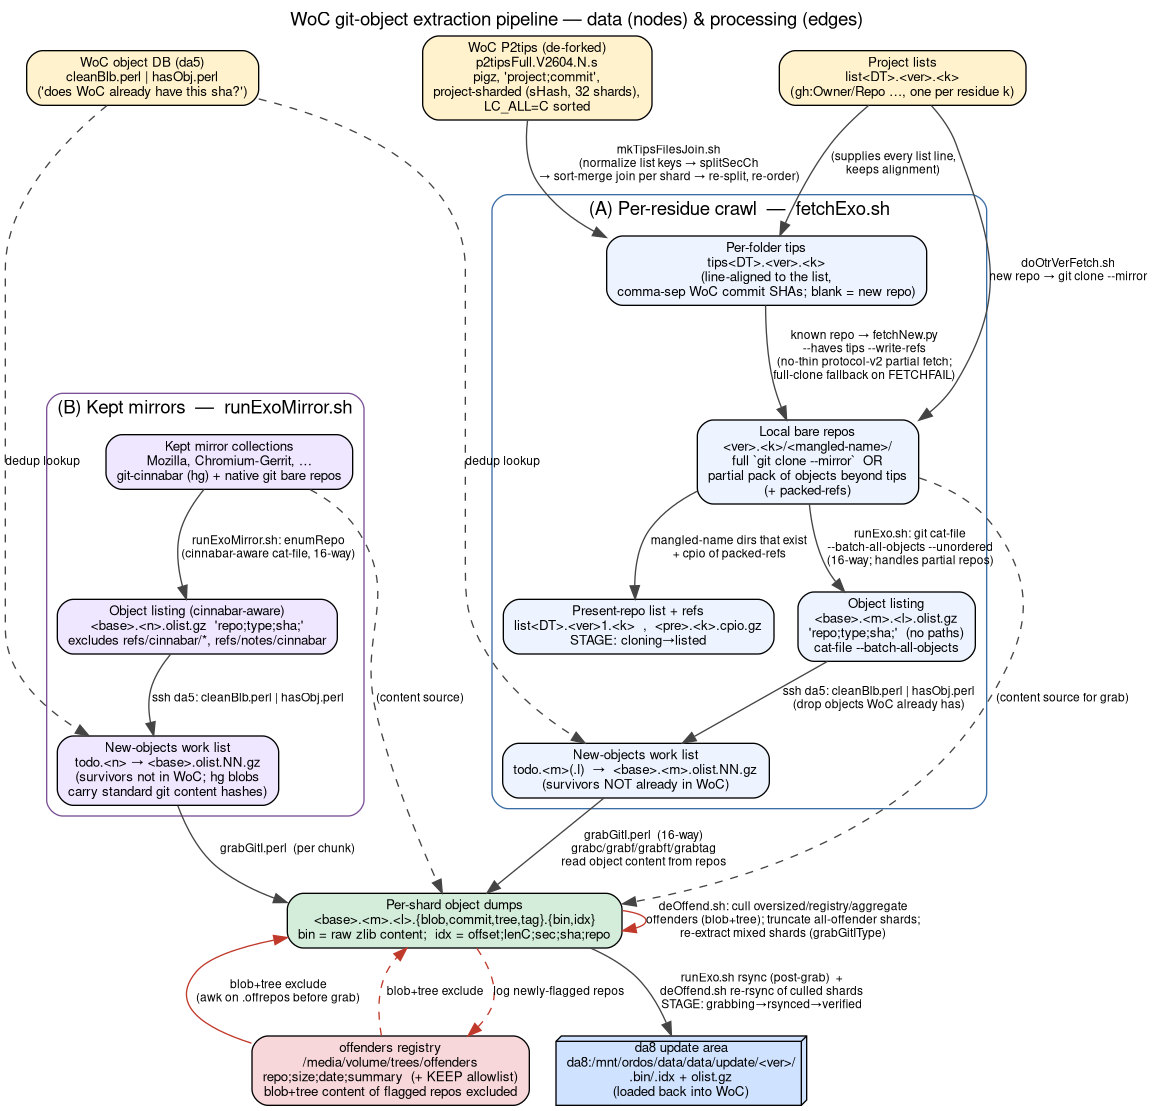
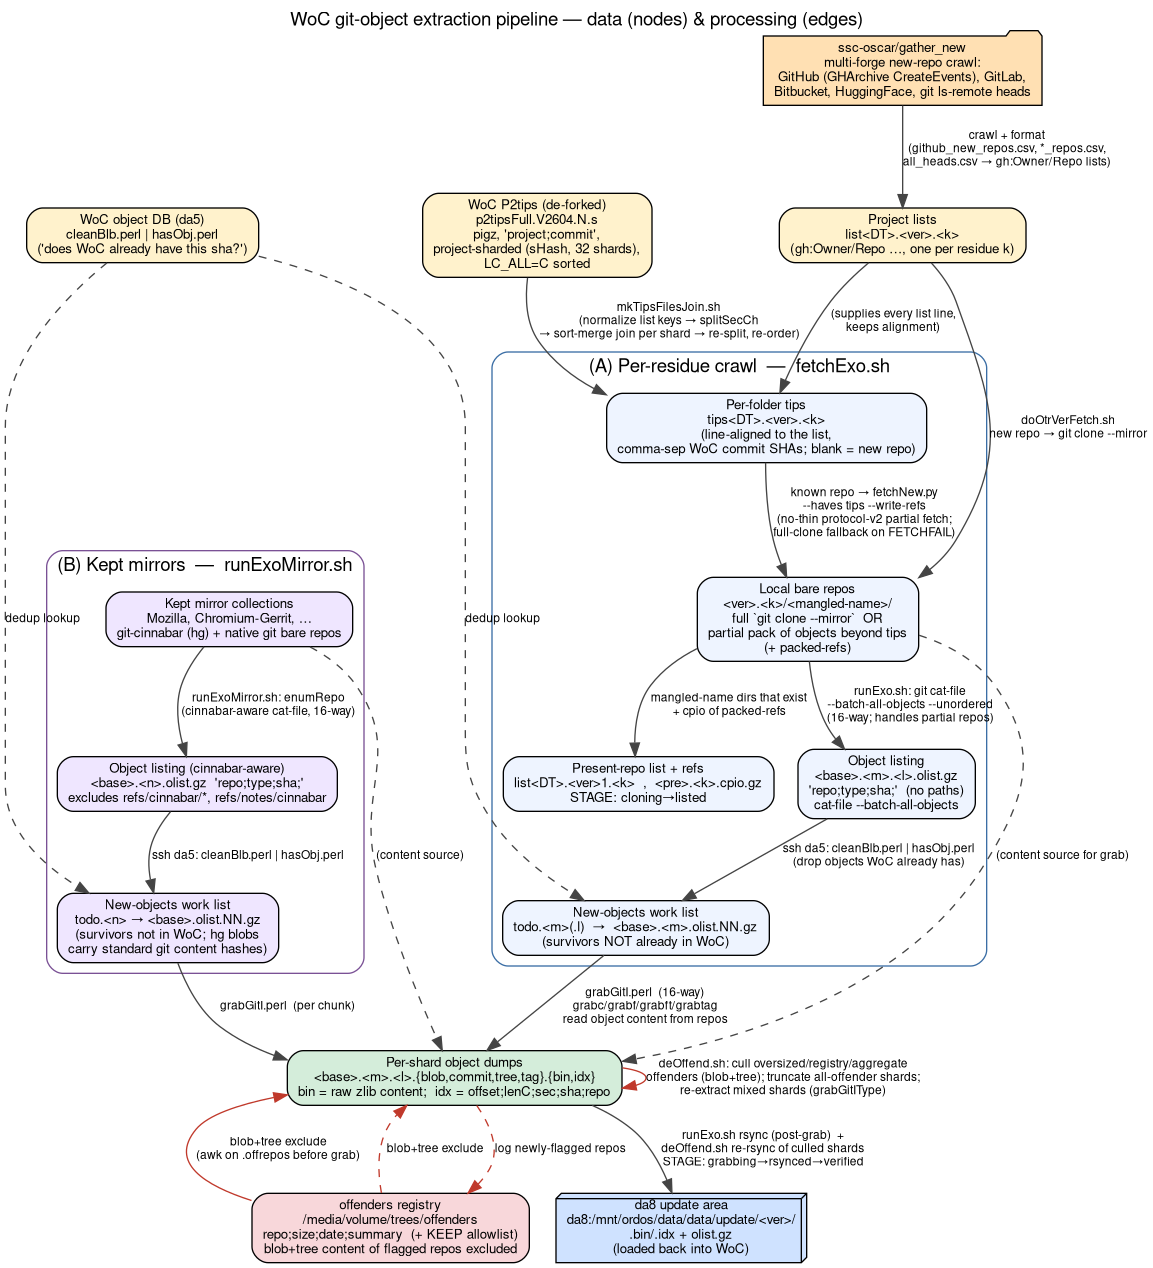
woc/PIPELINE: attribute project lists to ssc-oscar/gather_new
The list<DT>.<ver>.<k> (gh:Owner/Repo) inputs are produced upstream by the
ssc-oscar/gather_new multi-forge crawl (GitHub GHArchive, GitLab, Bitbucket,
HuggingFace, git ls-remote heads), not by this repo. Add a provenance section
and a gather_new source node/edge to the diagram.

diff --git a/woc/PIPELINE.md b/woc/PIPELINE.md
@@ -24,8 +24,27 @@ into WoC):
 | Data | What |
 |------|------|
 | **WoC P2tips** (de-forked) | `p2tipsFull.V2604.N.s` — pigz, `project;commit`, project-sharded by `sHash` (32 shards), `LC_ALL=C` sorted. The commit tips WoC already has per project. |
-| **Project lists** | `list<DT>.<ver>.<k>` — one per residue `k`, entries like `gh:Owner/Repo`. |
+| **Project lists** | `list<DT>.<ver>.<k>` — one per residue `k`, entries like `gh:Owner/Repo`. Produced upstream by [`ssc-oscar/gather_new`](https://github.com/ssc-oscar/gather_new) (see below). |
 | **WoC object DB (da5)** | queried via `cleanBlb.perl \| hasObj.perl` — "does WoC already have this sha?" |
+
+### Where the project lists come from — `ssc-oscar/gather_new`
+
+The `list<DT>.<ver>.<k>` inputs are not produced here; they originate from the
+separate [`ssc-oscar/gather_new`](https://github.com/ssc-oscar/gather_new) repo,
+which crawls new/updated repositories across forges (`update.sh`):
+
+- **GitHub** — GHArchive hourly `CreateEvents` (`gharchive_download.pl`,
+  `gharchive_extract.pl`) → `data/github_new_repos.csv`
+- **GitLab** — gitlab.com API plus other instances (gnome, debian/salsa,
+  drupalcode) (`crawl_gitlab_repos.py`, `gitlab_to_csv.pl`) → `data/*_repos.csv`
+- **Bitbucket** — `list_bitbucket_workspaces.py`, `crawl_bitbucket_repos.py`
+- **HuggingFace** — Parquet snapshots + API for models/datasets/spaces
+  (`hf_refresh.py`) → `data/hf_*.ndjson.gz`
+- **Git heads** — `git ls-remote` across hosts (`heads_prepare.sh`,
+  `heads_run.sh`) → `data/all_heads.csv` (`gh:repo;sha;ref`)
+
+These crawl outputs are turned into the per-residue `gh:Owner/Repo` lists that
+this pipeline consumes.
 
 ## offenders registry (read + write)
 
